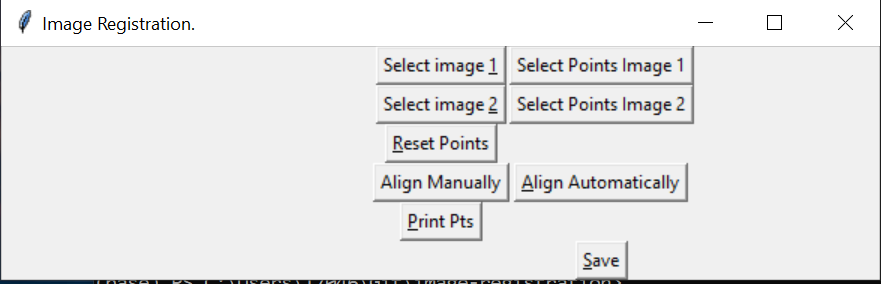
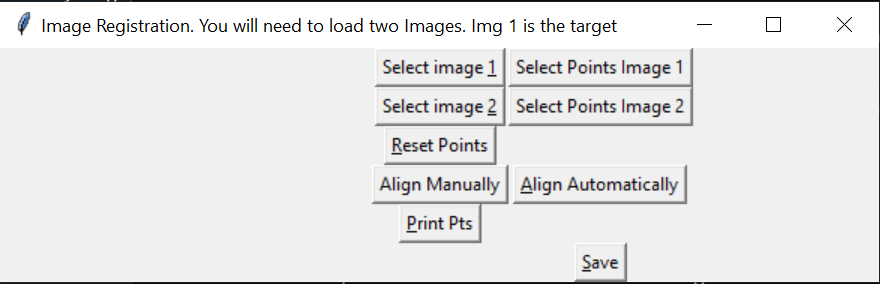
documentation images

diff --git a/imgreg.py b/imgreg.py
@@ -42,7 +42,8 @@ g_y2 = []
 def get_args():
     parser = argparse.ArgumentParser(description='Image Registration v1.0')
     parser.add_argument('-- ', default=" ",
-                        help='A Graphical User Interface with no arguments.')
+                        help='A Graphical User Interface with no arguments.'+
+                        '\nA target image and a source image are used in alignment.')
     args = parser.parse_args()
     return(args)
 
@@ -355,7 +356,8 @@ def get_corners(img):
 
     res = img.copy()
     res[dst>0.01*dst.max()]=[0,0,255]
-
+    
+    #identify key points
     kp = np.argwhere(dst > 0.01 * dst.max())
     kp = kp.astype("float32")
     kp = [cv2.KeyPoint(x[1], x[0], 4) for x in kp]
@@ -448,7 +450,7 @@ def main():
         sys.exit(0)
 
     root = Tk()
-    root.title("Image Registration.")
+    root.title("Image Registration. You will need to load two Images. Img 1 is the target")
 
     #setting up a tkinter canvas
     img1 = Canvas(root, width=100, height=100)
